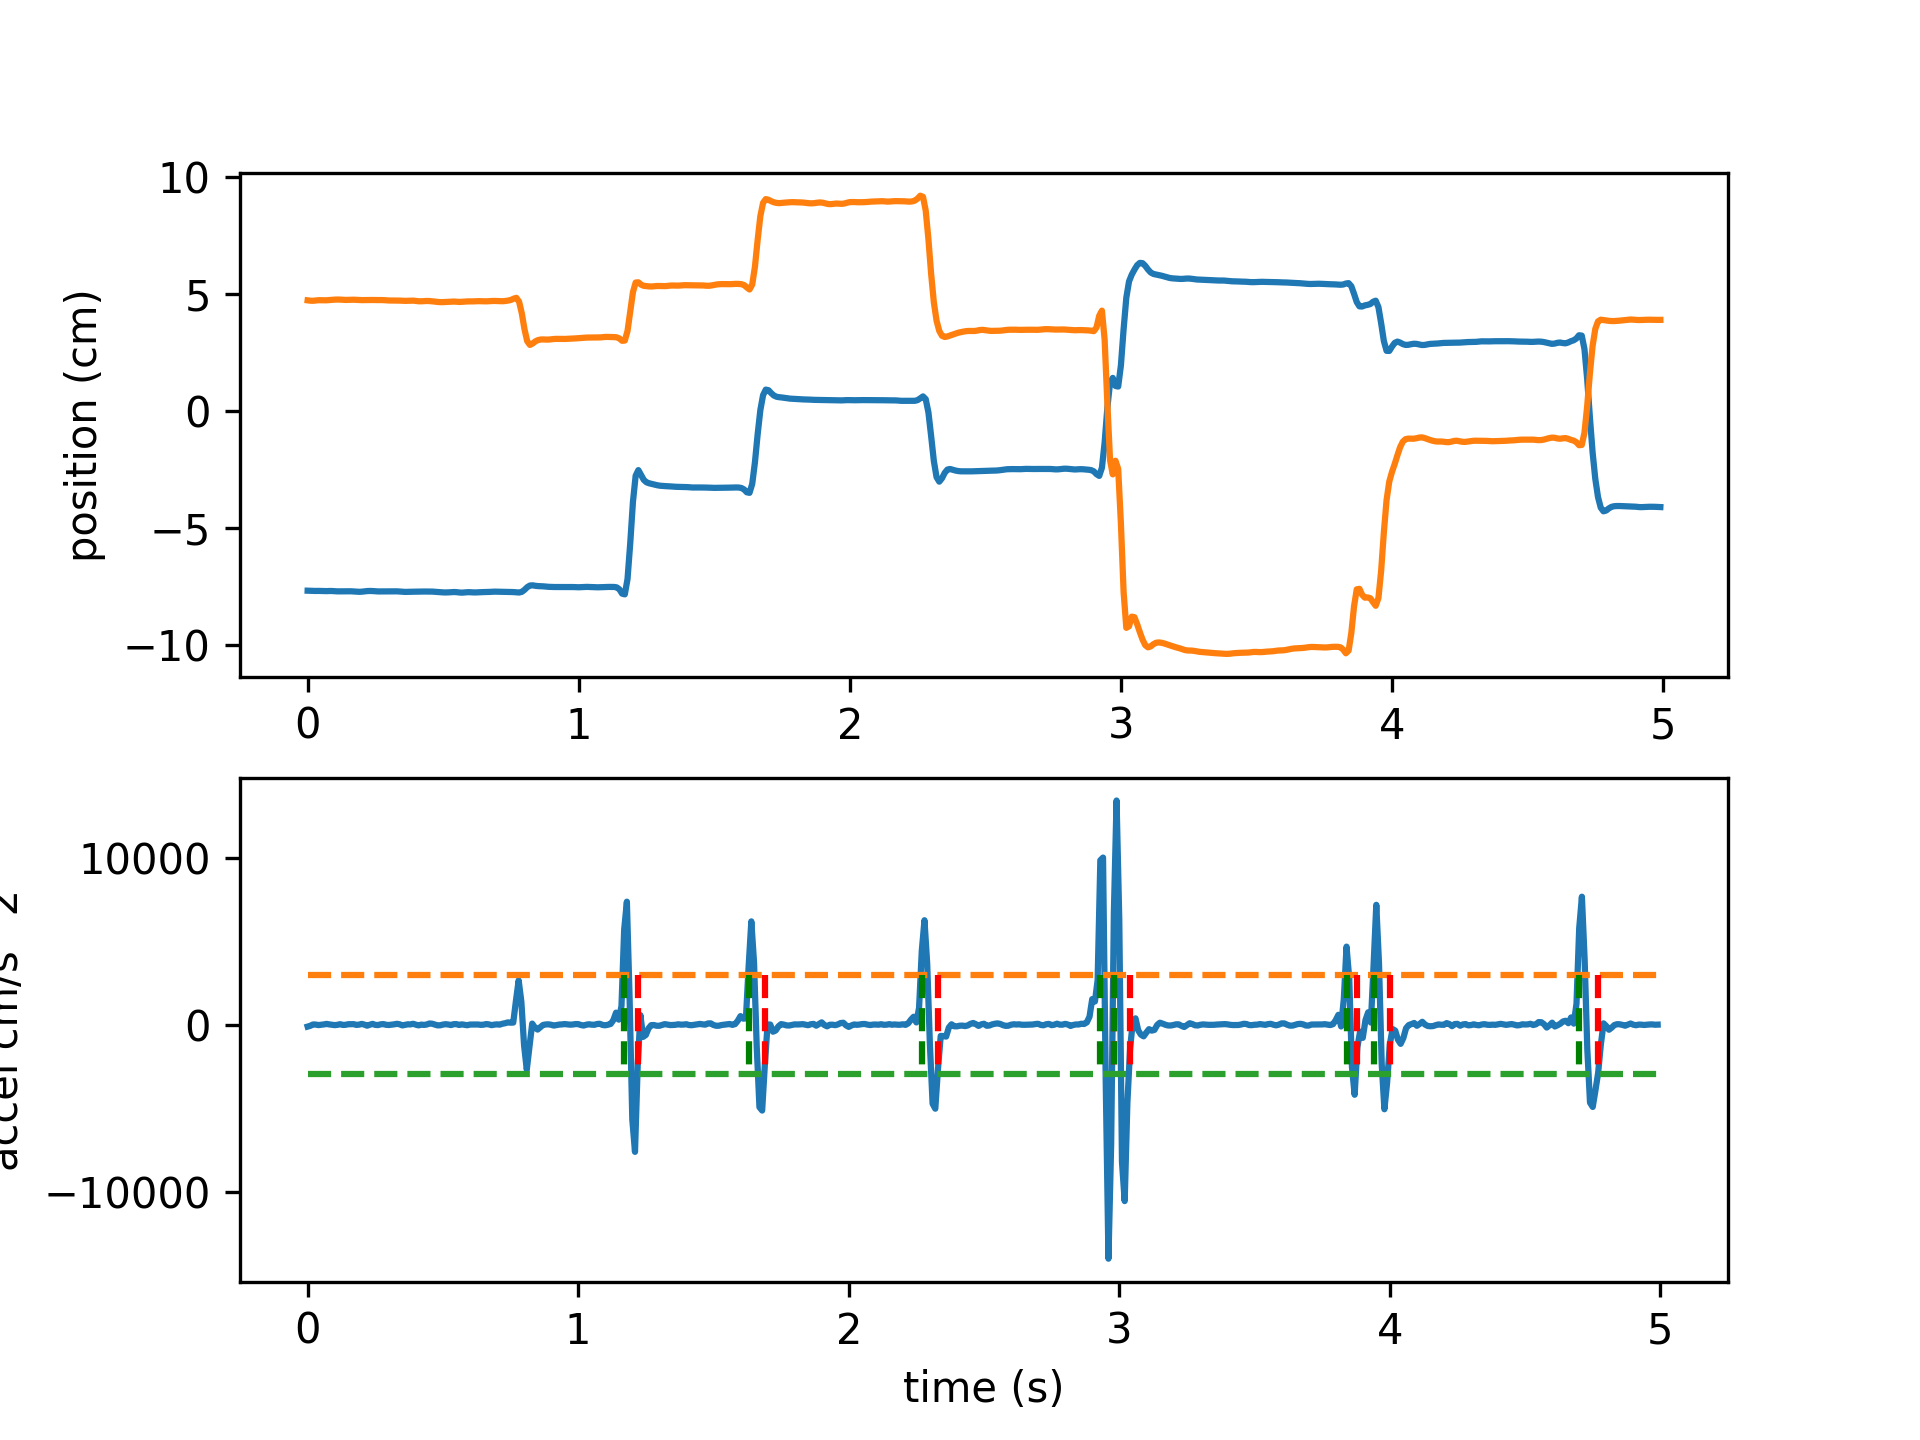
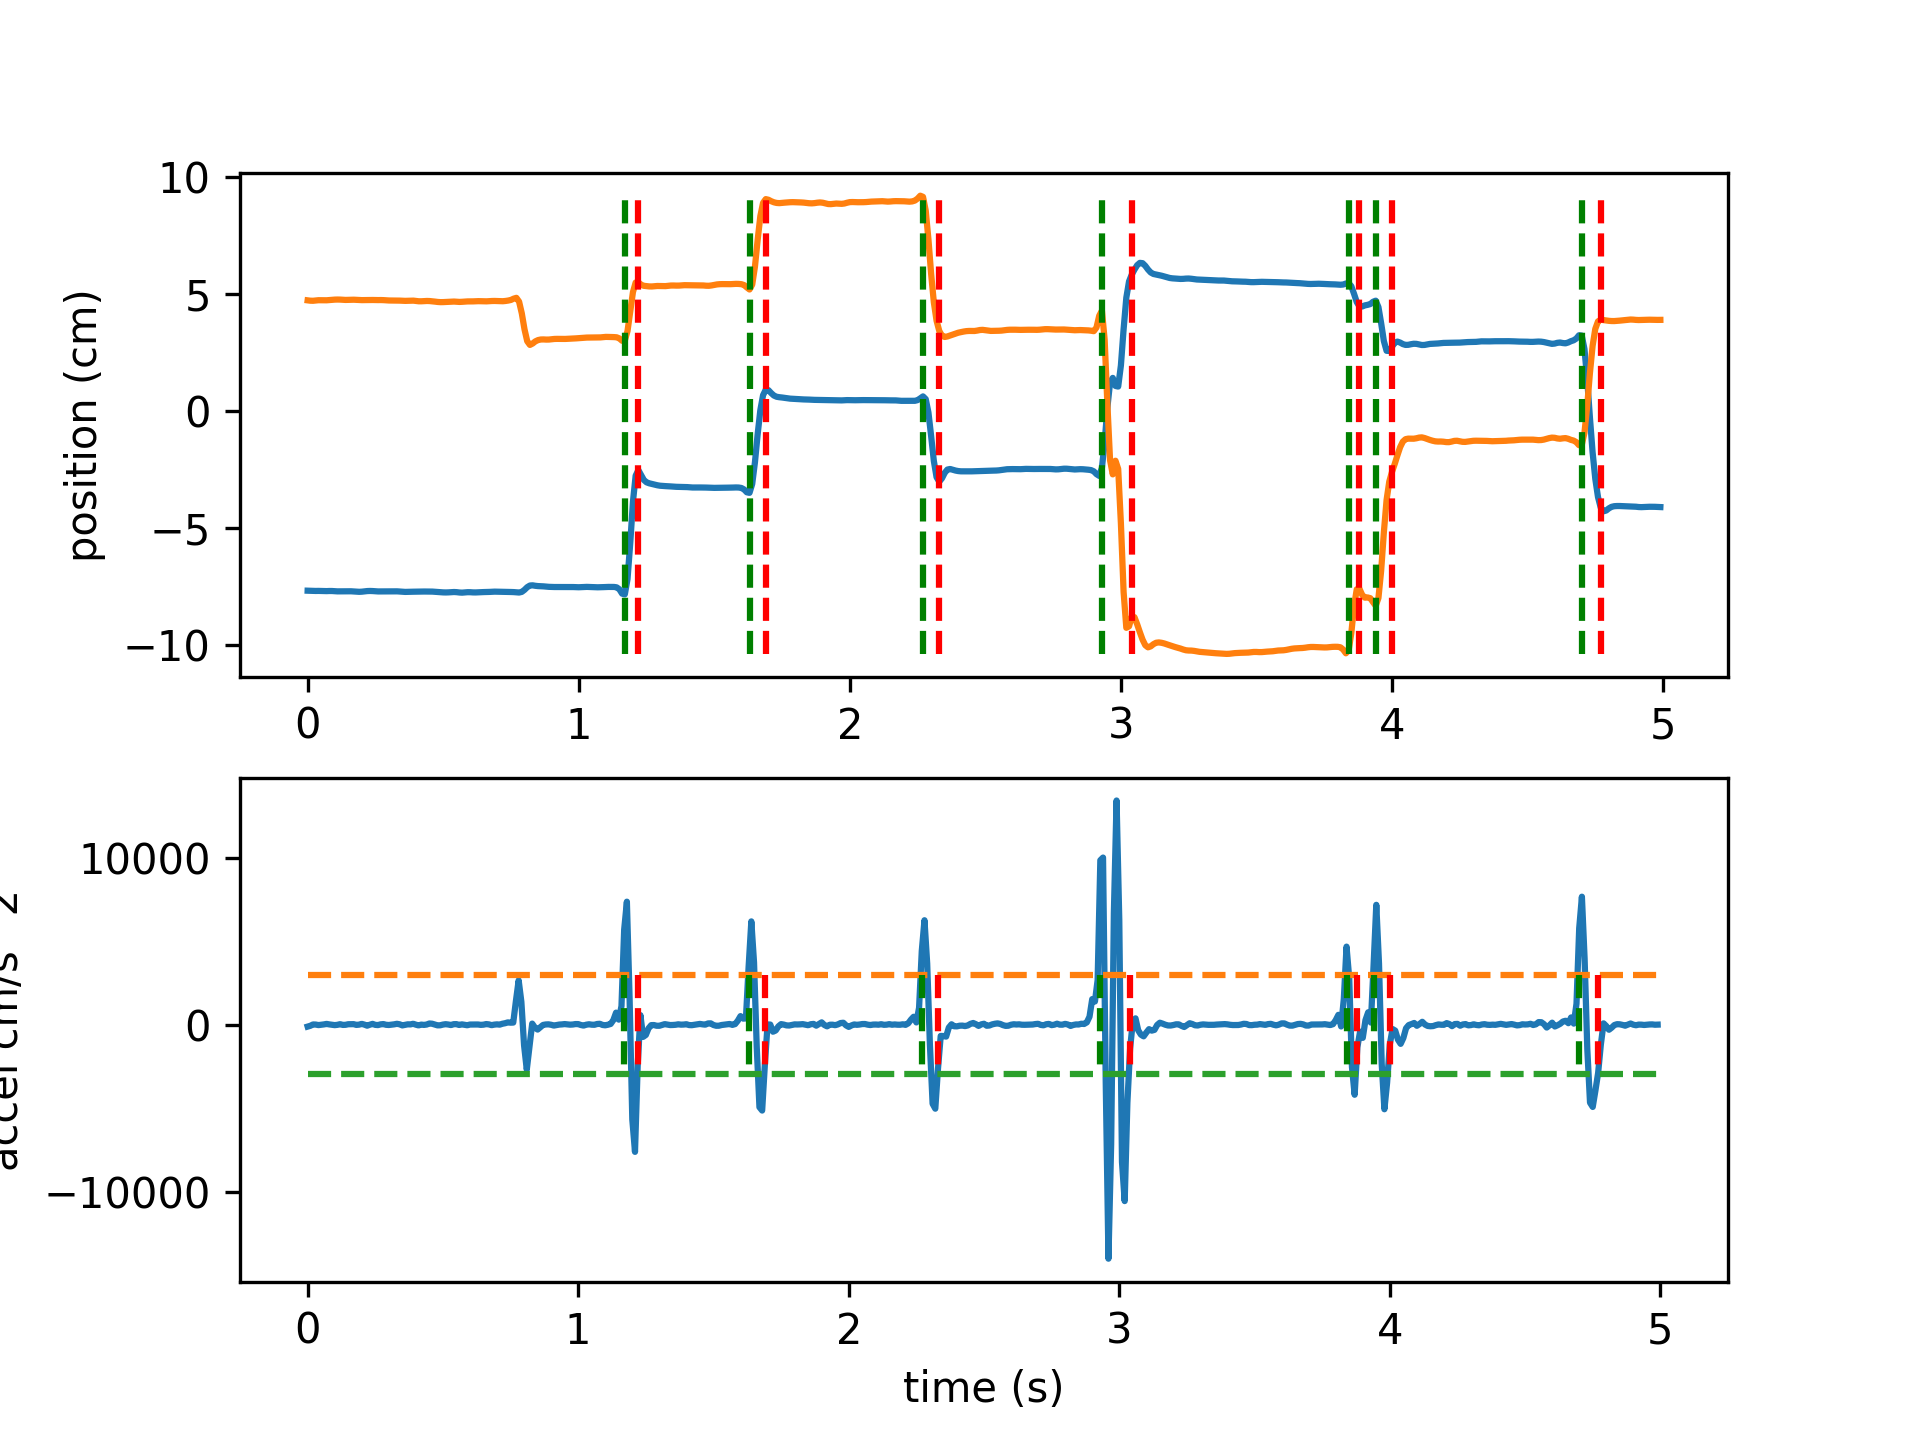
merge saccade within the intersaccade interval

diff --git a/aopy/precondition/eye.py b/aopy/precondition/eye.py
@@ -66,14 +66,24 @@ def convert_pos_to_accel(eye_pos, samplerate):
 
     return accel
 
-def detect_saccades(eye_pos, samplerate, thr=None, num_sd=1.5, intersaccade_min=0.02, 
-                    max_saccade_duration=0.15, debug=False, debug_window=(0, 2)):
+def detect_saccades(eye_pos, samplerate, thr=None, num_sd=1.5, intersaccade_min=None, 
+                    min_saccade_duration=0.015, max_saccade_duration=0.16, 
+                    debug=False, debug_window=(0, 2)):
     '''
-    Detect saccades from eye kinematics data. Uses thresholding of the kinematics to find putative saccades, 
-    then ensures that saccades are spaced by some minimum intersaccade time, and finally 
-    only considers events with both positive and negative crossings within the minimum saccade time. Optional
-    plots can be generated showing threshold crossings in position, velocity, and acceleration.
+    Detect saccades from eye kinematics data. Uses thresholding of the kinematics 
+    to find putative saccades, then ensures that saccades are spaced by some 
+    minimum intersaccade time, and finally only considers events with both positive 
+    and negative crossings within the minimum saccade time. Optional plots can be 
+    generated showing threshold crossings in position, velocity, and acceleration.
 
+    Minimum and maximum saccade durations can be enforced to remove events that are 
+    biologically implausible. Default minimum and maximum saccade durations from 
+    Dorr et al., 2010 https://doi.org/10.1167/10.10.28
+    
+    A minimum intersaccade interval can also be set to prevent the categorization 
+    of potential overshoot components as saccadic events. Default intersaccade 
+    minimum from Sinn & Engbert, 2016 https://doi.org/10.1016/j.visres.2015.05.012 
+    
     Example:
 
         Detecting saccades on the first 5 seconds of test data from beignet block 5974 (included in /tests/data/beignet)
@@ -86,8 +96,9 @@ def detect_saccades(eye_pos, samplerate, thr=None, num_sd=1.5, intersaccade_min=
         eye_kinematics (nt, nch): eye kinematics data, e.g. velocity or acceleration for one eye
         samplerate (float): sampling rate of the eye data
         num_sd (float, optional): number of standard deviations above zero to threshold acceleration
-        intersaccade_min (float, optional): minimum time (in seconds) allowed between saccade onsets
-        max_saccade_duration (float, optional): maximum time (in seconds) that a saccade can take
+        intersaccade_min (float, optional): minimum time (in seconds) allowed between saccades (from offset to next onset)
+        min_saccade_duration (float, optional): minimum time (in seconds) that a saccade can take (inclusive)
+        max_saccade_duration (float, optional): maximum time (in seconds) that a saccade can take (exclusive)
         debug (bool, optional): if True, display a figure showing the threshold crossings
         debug_window (tuple, optional): (start, end) time (in seconds) for the debug figure
         
@@ -117,18 +128,12 @@ def detect_saccades(eye_pos, samplerate, thr=None, num_sd=1.5, intersaccade_min=
     if saccade_onset_time.size == 0 or saccade_offset_time.size == 0:
         return [], [], []
 
-    # Only consider saccades that aren't immediately preceded by another saccade
-    intersaccade_interval = np.diff(saccade_onset_time) 
-    valid_onset_idx = np.where(intersaccade_interval > intersaccade_min)[0]
-    saccade_onset_idx = np.insert(valid_onset_idx + 1, 0, 0)
-    onset_time = saccade_onset_time[saccade_onset_idx]
-
     # Only consider saccades that have a threshold-crossing offset
     onset = []
     duration = []
     distance = []
-    for t in onset_time:
-        nearby_offset = np.where((saccade_offset_time > t) & 
+    for t in saccade_onset_time:
+        nearby_offset = np.where((saccade_offset_time >= t + min_saccade_duration) & 
                                  (saccade_offset_time < t + max_saccade_duration))[0]
         if len(nearby_offset):
             offset_time = saccade_offset_time[nearby_offset[0]]
@@ -138,6 +143,31 @@ def detect_saccades(eye_pos, samplerate, thr=None, num_sd=1.5, intersaccade_min=
                 np.linalg.norm(eye_pos[int(t*samplerate),:] - 
                                eye_pos[int(offset_time*samplerate),:])
             ) # distance is the deviation of the saccade in space (in cm)
+            prev_offset = offset_time
+    onset_ = np.array(onset)
+    duration_ = np.array(duration)
+    distance_ = np.array(distance)
+
+    # Enforce the intersaccade minimum
+    onset = []
+    duration = []
+    distance = []
+    offset = np.array([o + d for o, d in zip(onset_, duration_)])
+    intersaccade = np.insert(onset_[1:]-offset[:-1], 0, intersaccade_min)
+    for idx in range(len(onset_)):
+        if intersaccade[idx] < intersaccade_min and duration[-1] + duration_[idx] < max_saccade_duration:
+            # Saccade is part of previous one
+            duration[-1] += duration_[idx]
+            distance[-1] += distance_[idx]
+        elif len(duration) > 0 and duration[-1] + duration_[idx] >= max_saccade_duration:
+            # Saccade is too close but can't be part of this one, skip
+            pass
+        else:
+            # New saccade 
+            onset.append(onset_[idx])
+            duration.append(duration_[idx])
+            distance.append(distance_[idx])
+
     onset = np.array(onset)
     duration = np.array(duration)
     distance = np.array(distance)
@@ -155,10 +185,13 @@ def detect_saccades(eye_pos, samplerate, thr=None, num_sd=1.5, intersaccade_min=
         ax[1].plot([debug_window[0],debug_window[1]], [thr[0], thr[0]], '--')
         ax[1].plot([debug_window[0],debug_window[1]], [thr[1], thr[1]], '--')
         
+        min_max = [np.min(eye_pos[debug_idx[0]:debug_idx[1]]), np.max(eye_pos[debug_idx[0]:debug_idx[1]])]
         debug_idx = (onset > debug_window[0]) & (onset < debug_window[1])
         onset_debug = onset[debug_idx]
         duration_debug = duration[debug_idx]
         for o, d in zip(onset_debug, duration_debug):
+            ax[0].plot([o, o], min_max, 'g--')
+            ax[0].plot([o+d, o+d], min_max, 'r--')
             ax[1].plot([o, o], [thr[0], thr[1]], 'g--')
             ax[1].plot([o+d, o+d], [thr[0], thr[1]], 'r--')
 

diff --git a/tests/test_precondition.py b/tests/test_precondition.py
@@ -474,6 +474,11 @@ class EyeTests(unittest.TestCase):
         savefig(docs_dir, 'detect_saccades.png')
         plt.close()
 
+        self.assertTrue(np.all(duration < 0.15)) # max saccade duration
+        offset = np.array([o + d for o, d in zip(onset, duration)])
+        print(onset[1:]-offset[:-1])
+        np.testing.assert_allclose(np.ones(len(offset)-1), onset[1:]-offset[:-1] > 0.02) # intersaccade min
+
         plt.figure()
         plt.hist(1000*duration)
         plt.xlabel('Duration (ms)')
